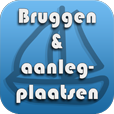
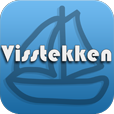
Detailview en plaatjes -- + appicon

diff --git a/Resources/src/ui/DetailView.js b/Resources/src/ui/DetailView.js
@@ -19,25 +19,7 @@
 			contentHeight: 	'auto',
 			contentWidth: 	'auto'
 		}),
-		
-		// Wanneer er een foto beschikbaar is deze weergeven in een imageview
-		ImageView : 	Ti.UI.createImageView({
-			image:				'',
-			height: 			'auto',
-			width: 				'80%',
-			top:				'2%'
-		}),
-		
-		// Wanneer er geen foto beschikbaar is komt er een tekst te staan
-		NoImage : Titanium.UI.createLabel({
-			text : 			"",
-			textAlign : 	"left",
-			left: 			'3%',
-			width : 		'auto',
-			heigth : 		'auto',
-			color:			VwApp.Config.TextColor
-		}),
-		
+	
 		// Type van de data
 		TypeData : Titanium.UI.createLabel({
 			text : 			"",
@@ -49,16 +31,6 @@
 			color:			VwApp.Config.TextColor
 		}),
 		
-		// Hieronder staan de eigenschappen van de data
-		Type : Titanium.UI.createLabel({
-			text : 			"",
-			textAlign : 	"left",
-			left: 			'3 %',
-			width : 		'auto',
-			heigth : 		'auto',
-			//top:			'2%',
-			color:			VwApp.Config.TextColor
-		}),
 		
 		Stad : 	Titanium.UI.createLabel({
 			text : 			"",
@@ -66,6 +38,7 @@
 			left: 			'3 %',
 			width : 		'auto',
 			heigth : 		'auto',
+			top:			'2%',
 			color:			VwApp.Config.TextColor
 		}),
 
@@ -106,10 +79,6 @@
 			return;
 		}
 		
-		// image hoogte is 0%, dus niet zichtbaar
-		DetailWindow.ImageView.height = '0%';
-		
-		
 		// elke tekst in de labels op 0% zetten zodat er weer met een lege pagina begonnen wordt
 		for (text in DetailWindow) {
 			if (DetailWindow.hasOwnProperty(text) && DetailWindow[text].setText) {		
@@ -131,141 +100,20 @@
 		// data type weergeven door de hoogte auto te zetten
 		DetailWindow.TypeData.height = 'auto';
 		
-		//het type data bovenaan zetten
+		// het type data bovenaan zetten
 		DetailWindow.TypeData.setText(VwApp.Config.VisStekDetail);
 		
-
-
-		// het weergeven van een afbeelding, of tekst wanneer er geen afbeelding beschikbaar is
-		if (data.TYPE == 'ligplaatsen' || data.TYPE == 'bruggen') {
-			// kijken of er een foto beschikbaar is en of het laten zien van foto's aangevinkt is in de settings.
-			if (data.PICTURE && Titanium.App.Properties.getBool('laadData', true)) {
-				// foto tonen voor bruggen
-				if (data.TYPE == 'bruggen') {
-					DetailWindow.ImageView.setImage(ChangeBridgeLink(data.PICTURE));
-				}
-				// foto tonen voor ligplaatsen
-				if (data.TYPE == 'ligplaatsen') {
-						DetailWindow.ImageView.setImage(ChangeMoorageLink(data.PICTURE));
-				}
-				// imagehoogte op automatisch zetten, en de tekst(wanneer er geen foto zou zijn) leeg maken
-				DetailWindow.ImageView.height = 'auto';
-				DetailWindow.NoImage.setText("");
-			} else { 
-				// else, in het geval wanneer er geen foto beschikbaar is
-				 
-				DetailWindow.NoImage.height = 'auto';
-				// wanneer foto's laden ingeschakeld is en er is geen foto beschikbaar toon de tekst dat er geen foto beschikbaar is
-				if (Titanium.App.Properties.getBool('laadData', true)) {     
-					DetailWindow.NoImage.setText(VwApp.Config.NoPictureDetail);
-				}	
-				// als het laden van foto's uitgeschakeld is geef hierover een melding
-				else {
-					DetailWindow.NoImage.setText(VwApp.Config.PictureOffDetail);
-				}
-			}
-			
-			 
-		}
 		
-		// het tonen van het adres, geldt alleen voor bepaalde types
-		if (data.TYPE == 'jachthavens' || data.TYPE == 'bruggen') {
-			DetailWindow.Adres.height = ('auto');
+		// het label stad weergeven
+		DetailWindow.Stad.height = 'auto';
 			
-			if (data.ADRESS) {
-				DetailWindow.Adres.setText(VwApp.Config.AdressDetail + data.ADRESS);
-			} else {
-				DetailWindow.Adres.setText(VwApp.Config.AdressDetail + "-");
-			}
-			
+		// de tekst van de stad veranderen
+		if (data.CITY) {
+			DetailWindow.Stad.setText(VwApp.Config.CityDetail + data.CITY);
+		} else {
+			DetailWindow.Stad.setText(VwApp.Config.CityDetail + "-");
 		}
-	
-		if (data.TYPE == 'bruggen') {
 			
-			//het tonen van de labels Hoogte, Breedte, Type en de bron van de data
-			DetailWindow.Hoogte.height = 'auto';
-			DetailWindow.Breedte.height = 'auto';
-			DetailWindow.Type.height = 'auto';
-			DetailWindow.Bron.height = 'auto';
-			
-			// de tekst van de hoogte veranderen
-			if (data.HEIGHT || data.HEIGHT == 0) {
-				DetailWindow.Hoogte.setText(VwApp.Config.HeigthDetail + data.HEIGHT + VwApp.Config.UnitDetail);
-			} else {
-				DetailWindow.Hoogte.setText(VwApp.Config.HeigthDetail + "-");
-			}
-			
-			// de tekst van de breedte veranderen
-			if (data.WIDTH || data.WIDTH == 0) {
-				DetailWindow.Breedte.setText(VwApp.Config.WidthDetail + data.WIDTH + VwApp.Config.UnitDetail);
-			} else {
-				DetailWindow.Breedte.setText(VwApp.Config.WidthDetail +"-");
-			}
-			
-			// de tekst van het brugtype veranderen
-			if (data.BRIDGETYPE) {
-				DetailWindow.Type.setText(VwApp.Config.TypeDetail + data.BRIDGETYPE);
-			} else {
-				DetailWindow.Type.setText(VwApp.Config.TypeDetail + "-");
-			}
-			
-			// de tekst van het de bron veranderen
-			if (data.SOURCE) {
-				DetailWindow.Bron.setText(VwApp.Config.BronDetail + data.SOURCE);
-			} else {
-				DetailWindow.Bron.setText(VwApp.Config.BronDetail + "-");
-			}
-			
-		}
-		
-		if (data.TYPE == 'jachthavens') {	
-			
-			// de labels van postcode, stad en oppervlakte in beeld brengen
-			DetailWindow.Postcode.height = 'auto';
-			DetailWindow.Stad.height = 'auto';
-			DetailWindow.Oppervlakte.height = 'auto';
-			
-			// postcode tekst veranderen
-			if (data.ZIPCODE) {
-				DetailWindow.Postcode.setText(VwApp.Config.ZipcodeDetail + data.ZIPCODE);
-			} else {
-				DetailWindow.Postcode.setText(VwApp.Config.ZipcodeDetail + "-");
-			}
-			
-			// de tekst van de stad veranderen
-			if (data.CITY) {
-				DetailWindow.Stad.setText(VwApp.Config.CityDetail + data.CITY);
-			} else {
-				DetailWindow.Stad.setText(VwApp.Config.CityDetail + "-");
-			}
-			
-			// de tekst van het label oppervlakte veranderen
-			if (data.SIZE) { 
-				DetailWindow.Oppervlakte.setText(VwApp.Config.SizeDetail + data.SIZE + VwApp.Config.SquareUnitDetail);
-			} else {
-				DetailWindow.Oppervlakte.setText(VwApp.Config.SizeDetail + "-");
-			}
-		}
-		
-		if (data.TYPE == 'ligplaatsen') {
-			
-			// de labels type en code weergeven
-			DetailWindow.Type.height = 'auto';
-			DetailWindow.Code.height = 'auto';
-			
-			// het veranderen van de tekst van het label type
-			if (data.MOORAGETYPE) { 
-				DetailWindow.Type.setText(VwApp.Config.TypeDetail + data.MOORAGETYPE);
-			} else {
-				DetailWindow.Type.setText(VwApp.Config.TypeDetail + "-");
-			}
-			// het veranderen van de tekst van het label code
-			if (data.CODE) {
-				DetailWindow.Code.setText(VwApp.Config.CodeDetail + data.CODE);
-			} else {
-				DetailWindow.Code.setText(VwApp.Config.CodeDetail + "-");
-			}
-		}
 		
 		//kijken of de data een lat en lon heeft en deze variabelen daarop aanpassen
 		if (data.LON && data.LAT) { 
@@ -275,91 +123,6 @@
 			Lat = "";
 		  	Lon = "";
 		}
-	}
-	
-	/**
-	 * De onnodige info van de link afhalen zodat deze in te laden is als image, toe te passen op de bruglinks
- 	 * 
- 	 * @param {string} [link]
- 	 * 		Een link naar een afbeelding	
-	 */
-	function ChangeBridgeLink(link) {
-		// inladen van de oude link
-		var oldlink = link;
-		
-		// link die ontstaat uit de oude link  
-		var newlink = ""; 
-		
-		//integer om het aantal '/' te tellen 
-		var slash = 0;    
-		
-		// de oude link doorlopen, karakter voor karakter
-		for (var i = 0; i < oldlink.length; i++) {
-			
-			// wanneer en een ',' voorkomt, stoppen met het maken van de nieuwe link
-			if (oldlink[i] == ',')  
-				return newlink;
-
-			// het aantal '/' tellen
-			if (oldlink[i] == '/') {  
-				newlink = newlink + oldlink[i];
-				slash++;
-			}
-			// bij de 6de slash
-			if (slash == 6) { 
-				slash++;
-				
-				// alles er tussenuithalen tot er een '=' komt
-				while (oldlink[i] != '=') { 
-					i++;
-				}
-			}
-			// else de nieuwe link maken
-			if (oldlink[i] != ',' && oldlink[i] != '/' && oldlink[i] != '=' && oldlink[i] != undefined) {
-				newlink = newlink + oldlink[i];
-			}
-				
-		}
-	}
-	
-	/**
-	 * Een functie die de link naar een marrekrite aanlegplaats
-	 * 		klaarmaakt voor gebruik
-	 * 
- 	 * @param {Object} [oldlink]
- 	 * 		De link naar de afbeelding zoals deze voorkomt in de annotaties data
- 	 *		 
-	 */
-	function ChangeMoorageLink(oldlink) {
-		
-		// link die ontstaat uit de oude link
-		var newlink = "";
-		
-		// integer om het aantal '/' te tellen
-		var slash = 0;    	
-		
-		// de oude link doorlopen, karakter voor karakter
-		for (var i = 0; i < oldlink.length; i++) {				
-			if (oldlink[i] == '/') {
-				slash++
-			}
-			
-			// bij de 7de slash 
-			if (slash == 7) {  				
-				// stukje toevoegen aan de nieuwe link
-				newlink = newlink + "/foto_marrekrite/";
-				// de laatste 5 karakters plakken aan de nieuwe link
-				for (var n = oldlink.length - 5; n < oldlink.length; n++) {				
-					newlink = newlink + oldlink[n];
-				}
-				// fotonummer toevoegen aan de link, in dit geval altijd 1
-				newlink = newlink + "_1.jpg";
-				return newlink;
-			}
-			// newlink maken uit de oude link
-			newlink = newlink + oldlink[i];				
-		}
-	 	
 	}
 	
 	// wanneer er geklikt wordt op de button setlocation op map en open de map, mits lat en lon aanwezig
@@ -378,17 +141,7 @@
 	// In eerste instantie worden die labels allemaal op hoogte 0% gezet
 	// verder in die methode worden ze dan weergeven wanneer dit van toepassing is
 	DetailWindow.Container.add(DetailWindow.TypeData);	
-	DetailWindow.Container.add(DetailWindow.ImageView);
-	DetailWindow.Container.add(DetailWindow.NoImage);
-	DetailWindow.Container.add(DetailWindow.Type);	
-	DetailWindow.Container.add(DetailWindow.Adres);
 	DetailWindow.Container.add(DetailWindow.Stad);
-	DetailWindow.Container.add(DetailWindow.Postcode);
-	DetailWindow.Container.add(DetailWindow.Hoogte);
-	DetailWindow.Container.add(DetailWindow.Breedte);
-	DetailWindow.Container.add(DetailWindow.Oppervlakte);
-	DetailWindow.Container.add(DetailWindow.Code);
-	DetailWindow.Container.add(DetailWindow.Bron);
 	// toonkaart hier pas toevoegen, anders komt deze bovenaan te staan
 	DetailWindow.Container.add(DetailWindow.Toonkaart); 
 
